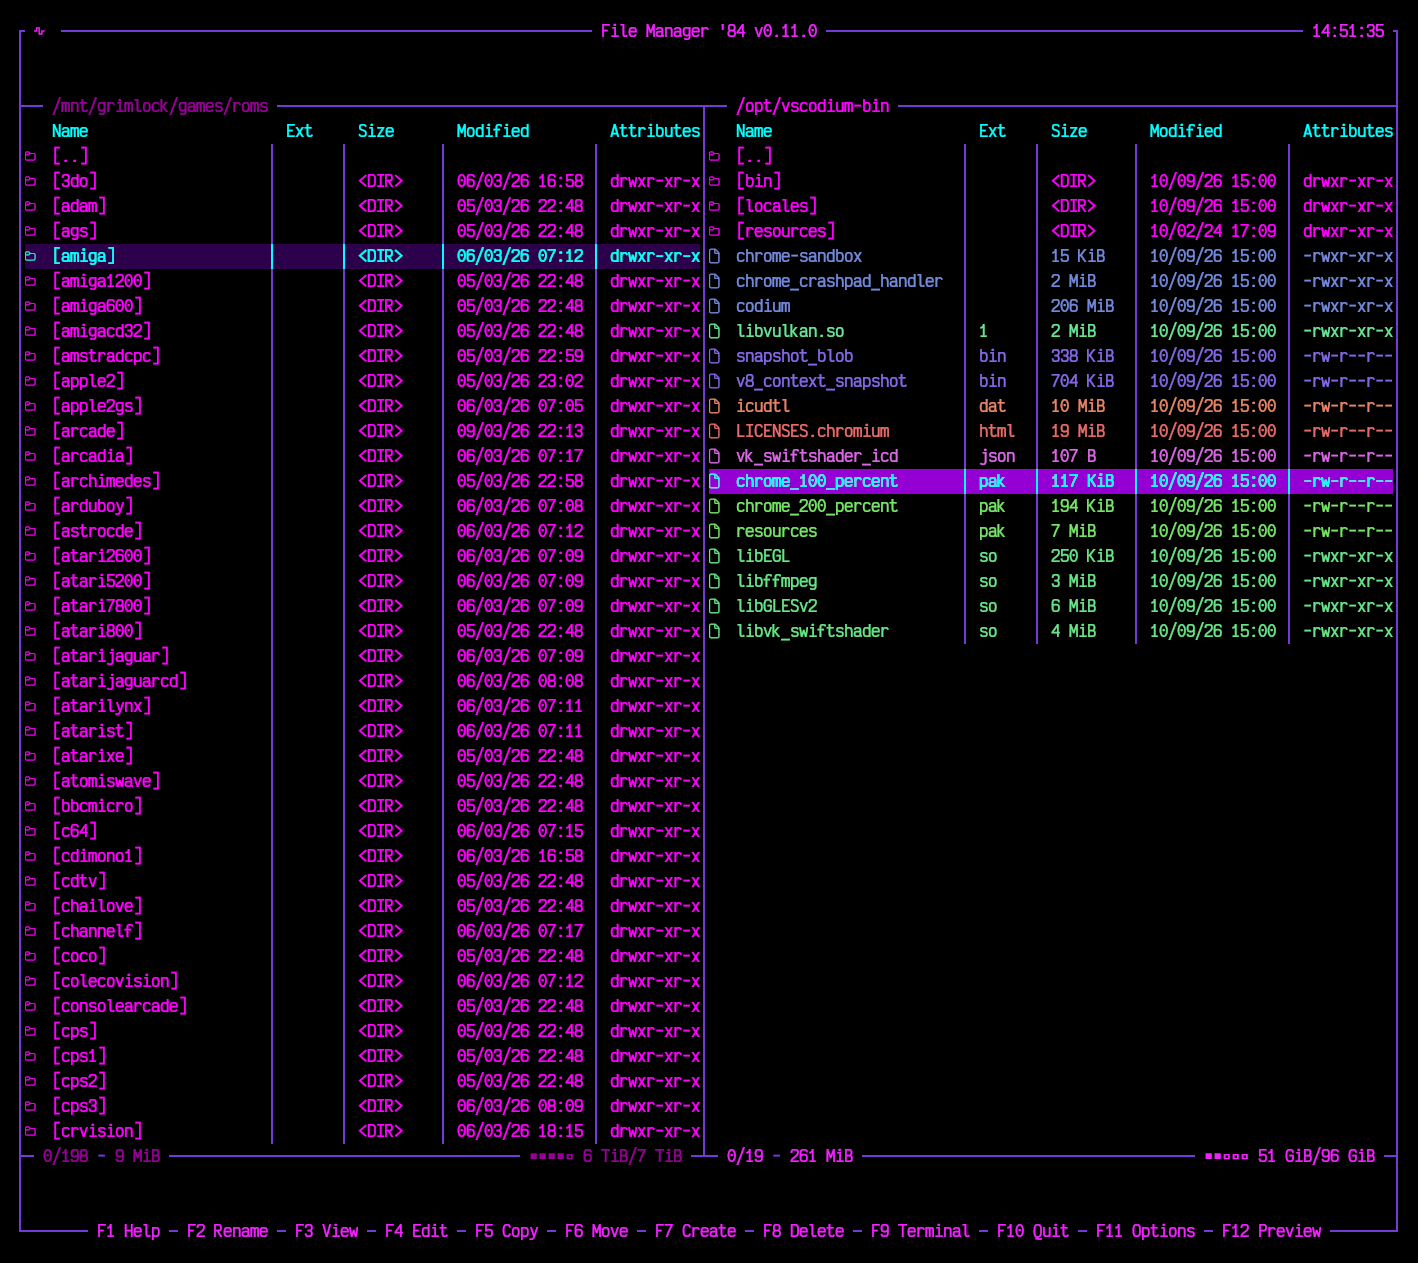
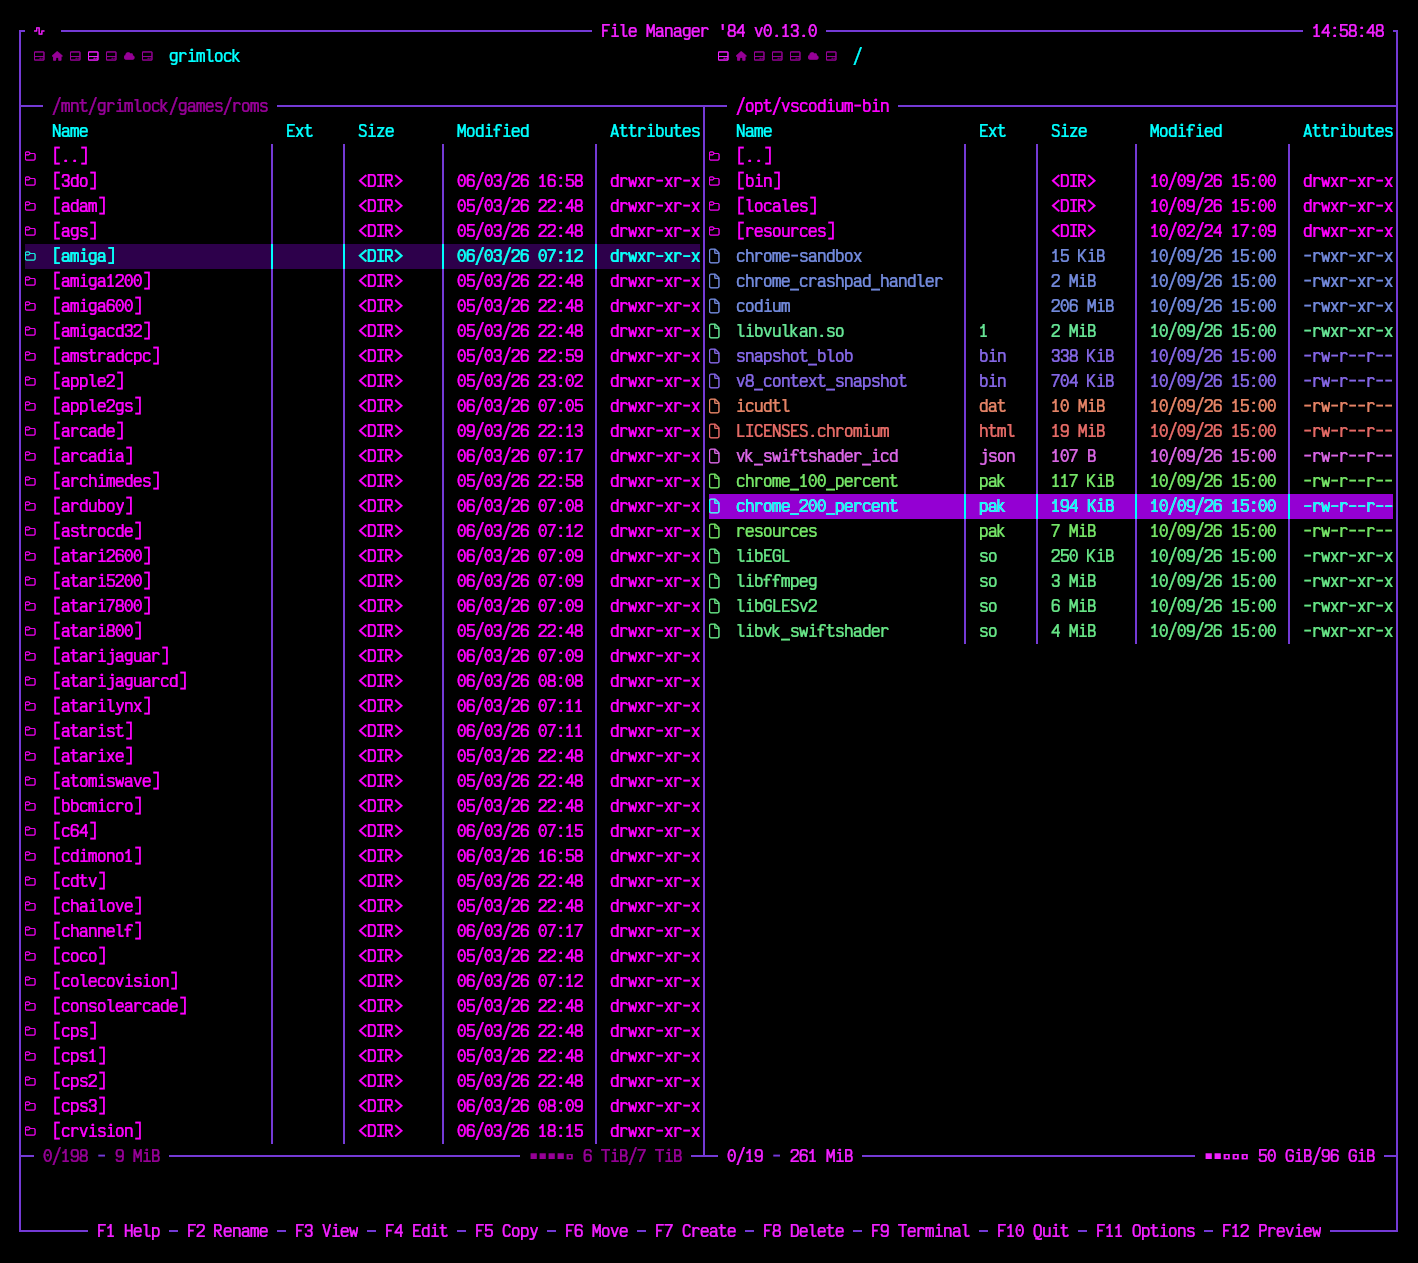
Update screenshots

diff --git a/README.md b/README.md
@@ -32,6 +32,9 @@
 <div align="center">
 <img src="https://raw.githubusercontent.com/coltwillcox/fm84/master/images/screen-main-1.png" width="801">
 </div>
+<div align="center">
+<img src="https://raw.githubusercontent.com/coltwillcox/fm84/master/images/screen-main-2.png" width="801">
+</div>
 
 ---
 
